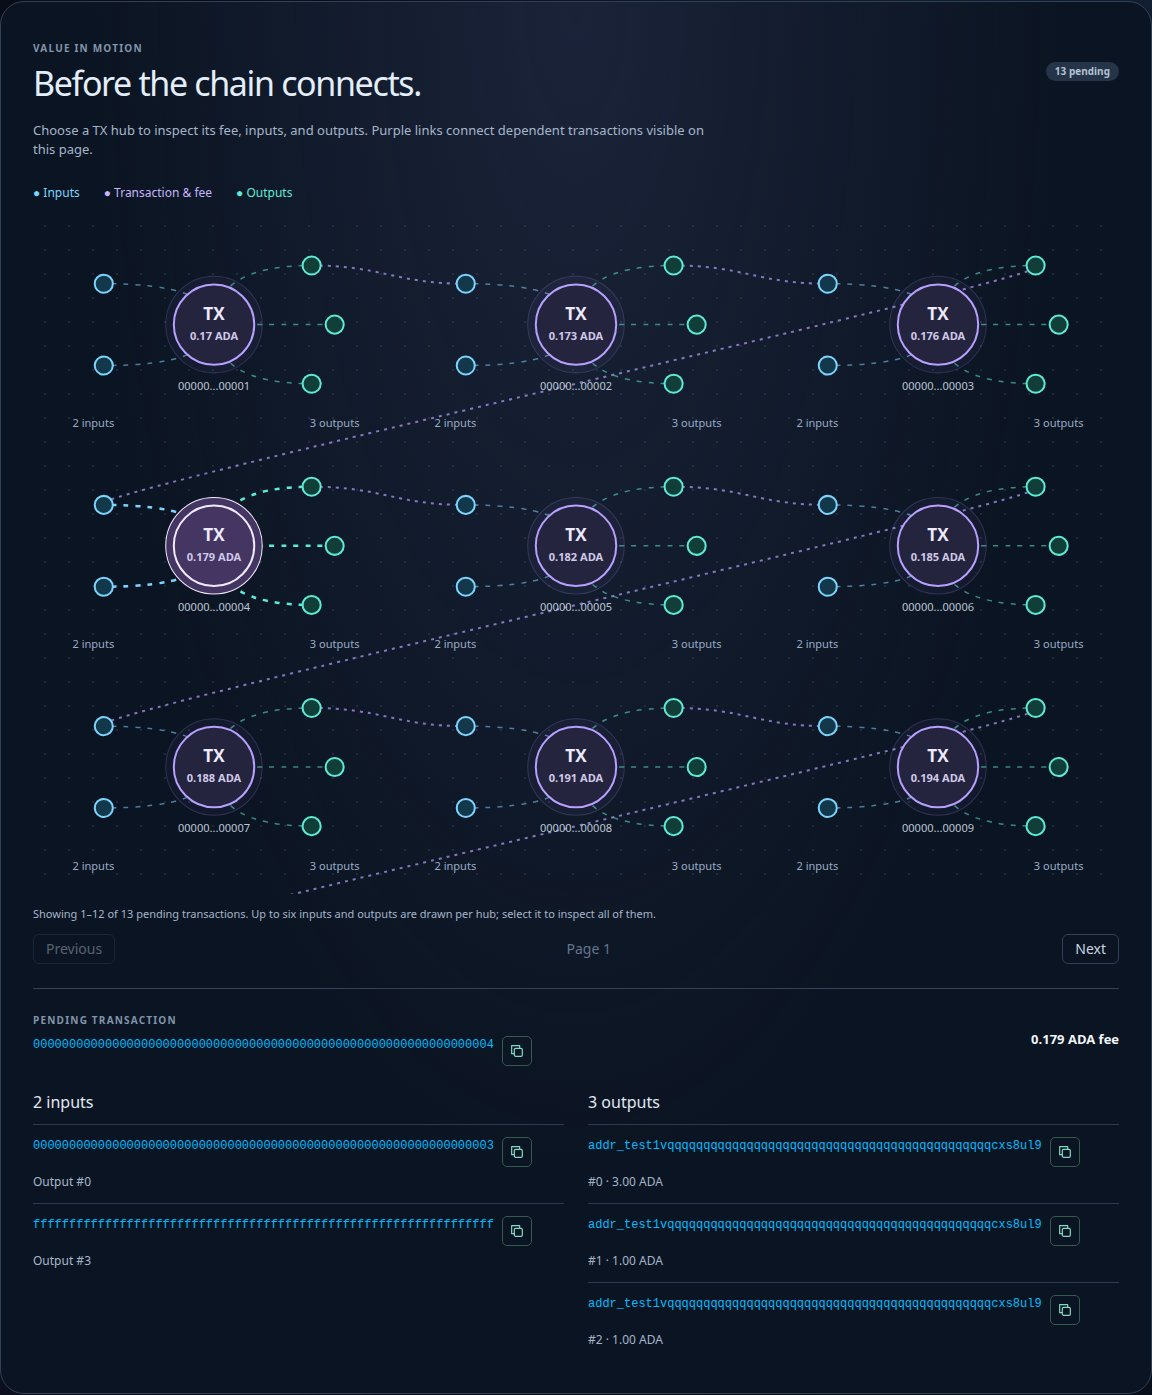
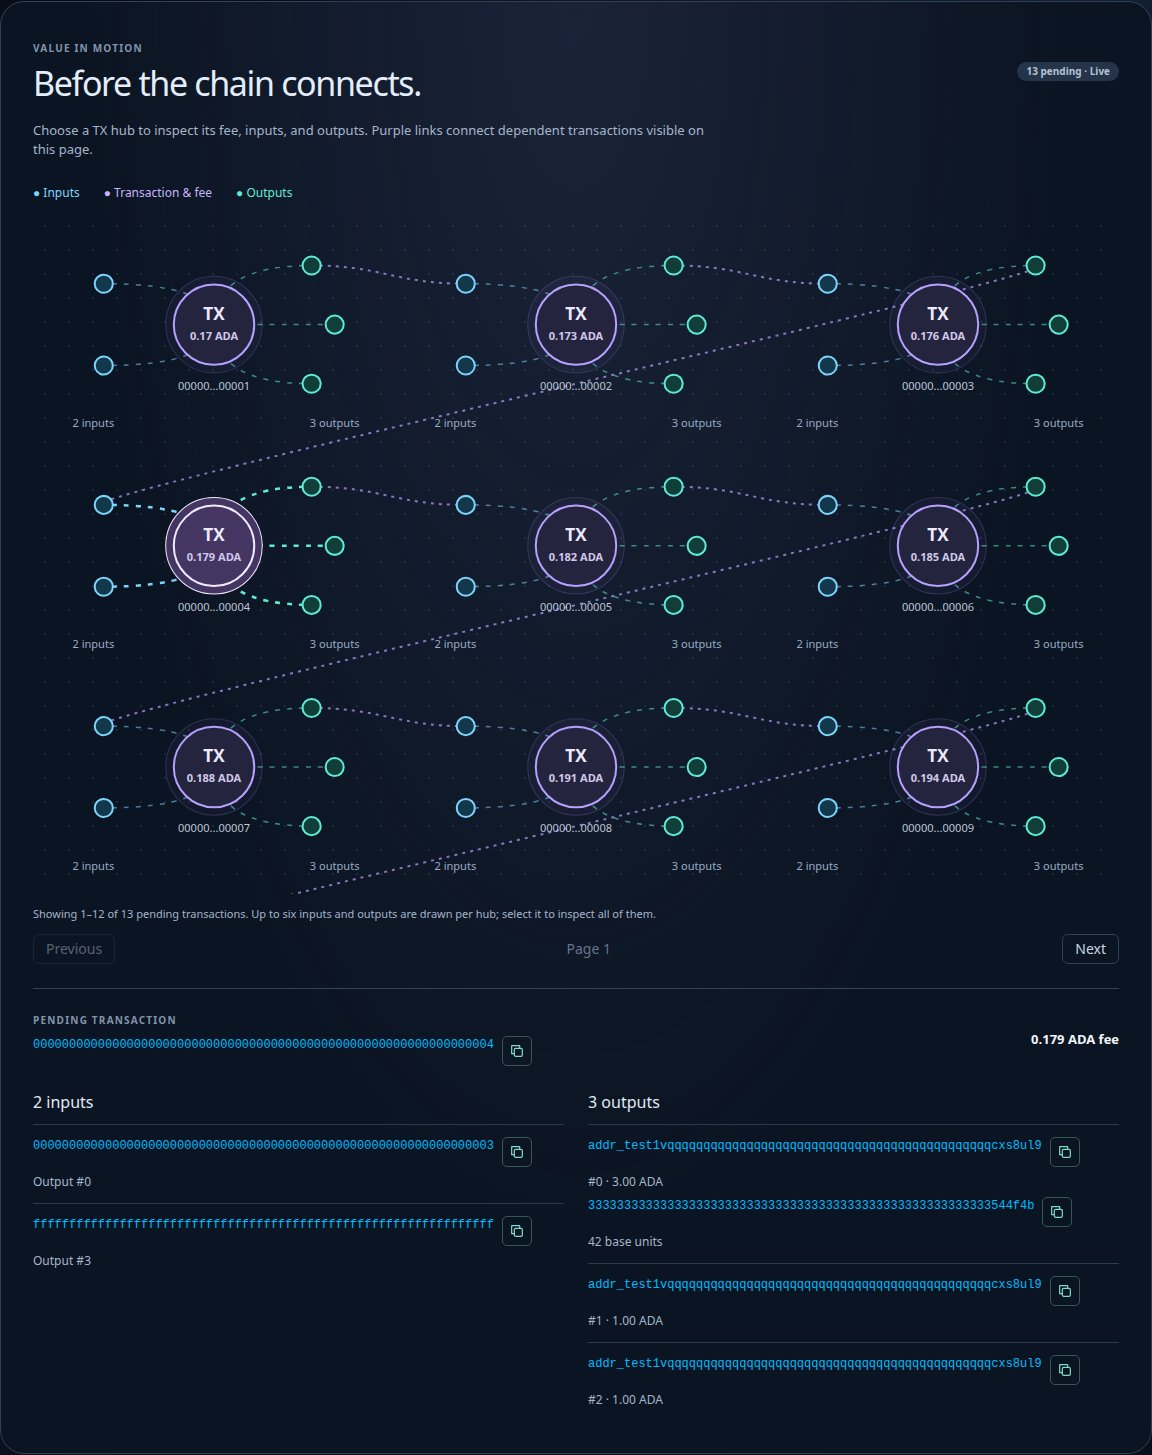
fix: preserve complete mempool output and dependency data

diff --git a/src/components/explorer/MempoolGraph.tsx b/src/components/explorer/MempoolGraph.tsx
@@ -1,5 +1,6 @@
 import { useState } from "react";
 import type { PendingTx } from "../../lib/dingo/utxorpc/streaming";
+import type { MempoolStatus } from "../../stores/mempoolStore";
 import { MEMPOOL_GRAPH_PAGE_SIZE, mempoolGraph } from "../../lib/explorer/mempoolGraph";
 import { useCompactVisual } from "../../lib/chain/useCompactVisual";
 import { formatAda, shortenHash } from "../../lib/format";
@@ -7,7 +8,7 @@ import { HashLink } from "./HashLink";
 import { Pagination } from "./Pagination";
 import "./mempool-graph.css";
 
-export function MempoolGraph({ transactions }: { transactions: PendingTx[] }) {
+export function MempoolGraph({ transactions, status }: { transactions: PendingTx[]; status: MempoolStatus }) {
   const compact = useCompactVisual();
   const [page, setPage] = useState(1);
   const [active, setActive] = useState("");
@@ -22,8 +23,9 @@ export function MempoolGraph({ transactions }: { transactions: PendingTx[] }) {
     <section className="mempool-web" aria-label="Mempool transaction web">
       <header>
         <div><span className="eyebrow">Value in motion</span><h2>Before the chain connects.</h2></div>
-        <span className="status-badge">{transactions.length.toLocaleString()} pending</span>
+        <span className="status-badge">{transactions.length.toLocaleString()} pending · {status === "live" ? "Live" : status === "error" ? "Reconnecting" : status === "connecting" ? "Connecting" : "Not started"}</span>
       </header>
+      {status !== "live" && transactions.length > 0 && <p role="status">Showing the last observed pending set while the feed reconnects.</p>}
       <p>Choose a TX hub to inspect its fee, inputs, and outputs. Purple links connect dependent transactions visible on this page.</p>
       <div className="mempool-web-legend"><span>● Inputs</span><span>● Transaction & fee</span><span>● Outputs</span></div>
       {shown.length > 0 ? <>
@@ -52,7 +54,7 @@ export function MempoolGraph({ transactions }: { transactions: PendingTx[] }) {
         <header><div><span className="eyebrow">Pending transaction</span><HashLink kind="tx" id={selected.hash} /></div><strong>{formatAda(selected.fee)} fee</strong></header>
         <div className="mempool-web-io">
           <div><h3>{selected.inputs.length} inputs</h3><ol>{selected.inputs.map((input, index) => <li key={index}><HashLink kind="tx" id={input.hash} /><span>Output #{input.index}</span></li>)}</ol></div>
-          <div><h3>{selected.outputs.length} outputs</h3><ol>{selected.outputs.map((output, index) => <li key={index}><HashLink kind="address" id={output.address} /><span>#{index} · {formatAda(output.lovelace)}</span></li>)}</ol></div>
+          <div><h3>{selected.outputs.length} outputs</h3><ol>{selected.outputs.map((output, index) => <li key={index}><HashLink kind="address" id={output.address} /><span>#{index} · {formatAda(output.lovelace)}</span>{output.assets.map((asset) => <div key={asset.unit}><HashLink kind="asset" id={asset.unit} /><span>{asset.quantity.toLocaleString()} base units</span></div>)}</li>)}</ol></div>
         </div>
       </section>}
     </section>

diff --git a/src/components/explorer/MempoolGraph.test.tsx b/src/components/explorer/MempoolGraph.test.tsx
@@ -7,20 +7,26 @@ import type { PendingTx } from "../../lib/dingo/utxorpc/streaming";
 vi.mock("../../lib/chain/useCompactVisual", () => ({ useCompactVisual: () => false }));
 
 it("selects hubs by keyboard, shows all ports, paginates, and removes departed transactions", async () => {
-  const transactions: PendingTx[] = Array.from({ length: 13 }, (_, i) => ({ hash: i.toString(16).padStart(64, "0"), fee: 200000n + BigInt(i), inputCount: 1, outputCount: 1, totalOutputLovelace: 1000000n, seenAt: i, inputs: [{ hash: "22".repeat(32), index: i }], outputs: [{ address: "address", lovelace: 1000000n }] }));
+  const transactions: PendingTx[] = Array.from({ length: 13 }, (_, i) => ({ hash: i.toString(16).padStart(64, "0"), fee: 200000n + BigInt(i), inputCount: 1, outputCount: 1, totalOutputLovelace: 1000000n, seenAt: i, inputs: [{ hash: "22".repeat(32), index: i }], outputs: [{ address: "address", lovelace: 1000000n, assets: [] }] }));
   const container = document.createElement("div"), root = createRoot(container);
-  const render = (rows: PendingTx[]) => root.render(<MemoryRouter><MempoolGraph transactions={rows} /></MemoryRouter>);
+  const render = (rows: PendingTx[], status: "live" | "error" = "live") => root.render(<MemoryRouter><MempoolGraph transactions={rows} status={status} /></MemoryRouter>);
   try {
+    transactions[1].inputs = [{ hash: transactions[0].hash, index: 0 }];
+    transactions[0].outputs[0].assets = [{ unit: "33".repeat(28) + "544f4b", quantity: 42n }];
     await act(async () => render(transactions));
     expect(container.querySelectorAll('.mempool-tx-hub')).toHaveLength(12);
+    expect(container.querySelectorAll('.mempool-dependency')).toHaveLength(1);
     await act(async () => container.querySelector('.mempool-tx-hub')!.dispatchEvent(new KeyboardEvent("keydown", { key: "Enter", bubbles: true })));
     expect(container.querySelector('[aria-label="Selected pending transaction"]')?.textContent).toContain("Output #0");
+    expect(container.querySelector('[aria-label="Selected pending transaction"]')?.textContent).toContain("42 base units");
     const next = Array.from(container.querySelectorAll("button")).find((button) => button.textContent === "Next")!;
     await act(async () => next.click());
     expect(container.querySelectorAll('.mempool-tx-hub')).toHaveLength(1);
     await act(async () => render([]));
     expect(container.querySelector('[aria-label="Selected pending transaction"]')).toBeNull();
     expect(container.textContent).toContain("Waiting for the next connection.");
+    await act(async () => render(transactions, "error"));
+    expect(container.textContent).toContain("last observed pending set");
     await act(async () => render(transactions));
     expect(container.querySelectorAll('.mempool-tx-hub')).toHaveLength(12);
     expect(container.querySelector('[aria-label="Selected pending transaction"]')).toBeNull();

diff --git a/src/lib/explorer/mempoolGraph.test.ts b/src/lib/explorer/mempoolGraph.test.ts
@@ -2,7 +2,7 @@ import { expect, it } from "vitest";
 import { mempoolGraph } from "./mempoolGraph";
 import type { PendingTx } from "../dingo/utxorpc/streaming";
 
-const tx = (hash: string, parent: string): PendingTx => ({ hash, inputs: [{ hash: parent, index: 0 }], outputs: [{ address: "address", lovelace: 1000000n }], inputCount: 1, outputCount: 1, totalOutputLovelace: 1000000n, fee: 200000n, seenAt: 1 });
+const tx = (hash: string, parent: string): PendingTx => ({ hash, inputs: [{ hash: parent, index: 0 }], outputs: [{ address: "address", lovelace: 1000000n, assets: [] }], inputCount: 1, outputCount: 1, totalOutputLovelace: 1000000n, fee: 200000n, seenAt: 1 });
 it.each([true, false])("connects real pending outpoints with a responsive layout: compact %s", (compact) => {
   const transactions = [tx("parent", "confirmed"), tx("child", "parent")];
   const graph = mempoolGraph(transactions, compact);
@@ -15,7 +15,23 @@ it("bounds drawn ports while preserving all transaction inputs and outputs", () 
   const transaction = tx("many", "confirmed");
   transaction.inputs = Array.from({ length: 50 }, (_, index) => ({ hash: "confirmed", index }));
   transaction.inputCount = 50;
+  transaction.outputs = Array.from({ length: 50 }, () => ({ address: "address", lovelace: 1n, assets: [] }));
+  transaction.outputCount = 50;
+  transaction.totalOutputLovelace = 50n;
   const graph = mempoolGraph([transaction], false);
   expect(graph.nodes[0].inputs).toHaveLength(6);
   expect(graph.nodes[0].tx.inputs).toHaveLength(50);
+  expect(graph.nodes[0].outputs).toHaveLength(6);
+  expect(graph.nodes[0].tx.outputs).toEqual(transaction.outputs);
+});
+
+it("connects dependencies through hubs when their actual input and output ports are beyond the drawn window", () => {
+  const parent = tx("parent", "confirmed"), child = tx("child", "confirmed");
+  parent.outputs = Array.from({ length: 8 }, () => ({ address: "address", lovelace: 1n, assets: [] }));
+  parent.outputCount = 8;
+  parent.totalOutputLovelace = 8n;
+  child.inputs = Array.from({ length: 8 }, (_, index) => ({ hash: index === 7 ? "parent" : "confirmed", index }));
+  child.inputCount = 8;
+  const graph = mempoolGraph([parent, child], false);
+  expect(graph.dependencies).toEqual([{ from: { x: graph.nodes[0].x, y: graph.nodes[0].y }, to: { x: graph.nodes[1].x, y: graph.nodes[1].y }, parent: "parent", child: "child" }]);
 });

diff --git a/src/lib/dingo/utxorpc/streaming.test.ts b/src/lib/dingo/utxorpc/streaming.test.ts
@@ -4,10 +4,18 @@ import { expect, it } from "vitest";
 import { decodeMempoolTx } from "./streaming";
 
 it("retains actual input outpoints and output amounts for the mempool web", () => {
-  const body = new Core.TransactionBody(Core.CborSet.fromCore([{ txId: Core.TransactionId("11".repeat(32)), index: 2 }], Core.TransactionInput.fromCore), [new Core.TransactionOutput(Core.addressFromCredential(0, Core.Credential.fromCore({ hash: Core.Hash28ByteBase16("00".repeat(28)), type: Core.CredentialType.KeyHash })), new Core.Value(1234567n))], 200000n);
+  const address = Core.addressFromCredential(0, Core.Credential.fromCore({
+    hash: Core.Hash28ByteBase16("00".repeat(28)), type: Core.CredentialType.KeyHash,
+  }));
+  const inputs = Core.CborSet.fromCore([
+    { txId: Core.TransactionId("11".repeat(32)), index: 2 },
+  ], Core.TransactionInput.fromCore);
+  const unit = Core.AssetId("33".repeat(28) + "544f4b");
+  const output = new Core.TransactionOutput(address, new Core.Value(1234567n, new Map([[unit, 42n]])));
+  const body = new Core.TransactionBody(inputs, [output], 200000n);
   const transaction = new Core.Transaction(body, new Core.TransactionWitnessSet());
   const decoded = decodeMempoolTx(Core.fromHex(transaction.toCbor()));
   expect(decoded?.inputs).toEqual([{ hash: "11".repeat(32), index: 2 }]);
-  expect(decoded?.outputs).toEqual([{ address: body.outputs()[0].address().toBech32(), lovelace: 1234567n }]);
+  expect(decoded?.outputs).toEqual([{ address: address.toBech32(), lovelace: 1234567n, assets: [{ unit, quantity: 42n }] }]);
   expect(decoded?.fee).toBe(200000n);
 });

diff --git a/src/lib/dingo/utxorpc/streaming.ts b/src/lib/dingo/utxorpc/streaming.ts
@@ -31,7 +31,7 @@ export interface PendingTx {
   seenAt: number;
   validUntil?: number;
   inputs: { hash: string; index: number }[];
-  outputs: { address: string; lovelace: bigint }[];
+  outputs: { address: string; lovelace: bigint; assets: { unit: string; quantity: bigint }[] }[];
 }
 
 // Dingo's WatchMempool/ReadMempool only ever populate raw tx bytes, never
@@ -58,7 +58,11 @@ export function decodeMempoolTx(nativeBytes: Uint8Array): PendingTx | null {
       seenAt: Date.now(),
       validUntil: body.ttl(),
       inputs: body.inputs().values().map((input) => ({ hash: String(input.transactionId()), index: Number(input.index()) })),
-      outputs: body.outputs().map((output) => ({ address: formatAddress(output.address()), lovelace: output.amount().coin() })),
+      outputs: body.outputs().map((output) => ({
+        address: formatAddress(output.address()),
+        lovelace: output.amount().coin(),
+        assets: [...(output.amount().multiasset() ?? [])].map(([unit, quantity]) => ({ unit: String(unit), quantity })),
+      })),
     };
   } catch {
     // A tx type this app's Blaze version doesn't understand (e.g. a very

diff --git a/src/lib/explorer/mempoolGraph.ts b/src/lib/explorer/mempoolGraph.ts
@@ -15,11 +15,10 @@ export function mempoolGraph(transactions: PendingTx[], compact: boolean) {
     return { tx, x, y, inputs: ports(tx.inputs.length, true), outputs: ports(tx.outputs.length, false) };
   });
   const byHash = new Map(nodes.map((node) => [node.tx.hash, node]));
-  const dependencies = nodes.flatMap((node) => node.inputs.flatMap((port) => {
-    const input = node.tx.inputs[port.index];
+  const dependencies = nodes.flatMap((node) => node.tx.inputs.flatMap((input, index) => {
     const parent = byHash.get(input.hash);
-    const output = parent?.outputs[input.index];
-    return parent && output ? [{ from: output, to: port, parent: parent.tx.hash, child: node.tx.hash }] : [];
+    if (!parent || input.index < 0 || input.index >= parent.tx.outputs.length) return [];
+    return [{ from: parent.outputs[input.index] ?? { x: parent.x, y: parent.y }, to: node.inputs[index] ?? { x: node.x, y: node.y }, parent: parent.tx.hash, child: node.tx.hash }];
   }));
   return { nodes, dependencies, width, height: Math.max(220, Math.ceil(nodes.length / columns) * 220) };
 }

diff --git a/src/components/explorer/TransactionTracker.test.tsx b/src/components/explorer/TransactionTracker.test.tsx
@@ -75,10 +75,10 @@ it("tracks local submission through mempool and inclusion, then removes confirma
         {
           hash,
           fee: 1n,
-          totalOutputLovelace: 1n,
+          totalOutputLovelace: 1000000n,
           inputCount: 1,
           inputs: [{ hash: "22".repeat(32), index: 0 }],
-          outputs: [{ address: "address", lovelace: 1000000n }],
+          outputs: [{ address: "address", lovelace: 1000000n, assets: [] }],
           outputCount: 1,
           seenAt: Date.now(),
         },
@@ -148,10 +148,10 @@ it("retains an observed validity bound after eviction and reports expiry without
         {
           hash,
           fee: 1n,
-          totalOutputLovelace: 1n,
+          totalOutputLovelace: 1000000n,
           inputCount: 1,
           inputs: [{ hash: "22".repeat(32), index: 0 }],
-          outputs: [{ address: "address", lovelace: 1000000n }],
+          outputs: [{ address: "address", lovelace: 1000000n, assets: [] }],
           outputCount: 1,
           seenAt: Date.now(),
           validUntil: 1001,

diff --git a/src/pages/explorer/TxDetail.test.tsx b/src/pages/explorer/TxDetail.test.tsx
@@ -34,10 +34,10 @@ it("resolves uppercase pending IDs with the same lowercase identity as the track
           hash,
           inputCount: 1,
           inputs: [{ hash: "22".repeat(32), index: 0 }],
-          outputs: [{ address: "address", lovelace: 1000000n }],
+          outputs: [{ address: "address", lovelace: 1000000n, assets: [] }],
           outputCount: 1,
           fee: 1n,
-          totalOutputLovelace: 1n,
+          totalOutputLovelace: 1000000n,
           seenAt: Date.now(),
         },
       ],

diff --git a/src/components/explorer/mempool-graph.css b/src/components/explorer/mempool-graph.css
@@ -43,6 +43,7 @@
 .mempool-web-io ol { max-height: 300px; overflow-y: auto; }
 .mempool-web-io li { display: grid; gap: 6px; padding: 12px 0; border-top: 1px solid #2b3b52; font-size: 12px; min-width: 0; }
 .mempool-web-io li span { color: #a4b5ca; }
+.mempool-web-io li > div { display: grid; gap: 6px; }
 .mempool-web-empty { text-align: center; padding: 80px 16px; color: #a6b7ce; }
 .mempool-web-empty > span { font-size: 64px; color: #b6a4ec; }
 @keyframes mempool-current { to { stroke-dashoffset: -120; } }

diff --git a/src/pages/explorer/MempoolFeed.tsx b/src/pages/explorer/MempoolFeed.tsx
@@ -28,7 +28,7 @@ export default function MempoolFeed() {
         detail="Live transaction arrivals, streamed directly from Dingo."
         symbol="≋"
       />
-      <MempoolGraph transactions={sorted} />
+      <MempoolGraph transactions={sorted} status={status} />
       <Panel
         title={
           <span className="flex items-center gap-2">
